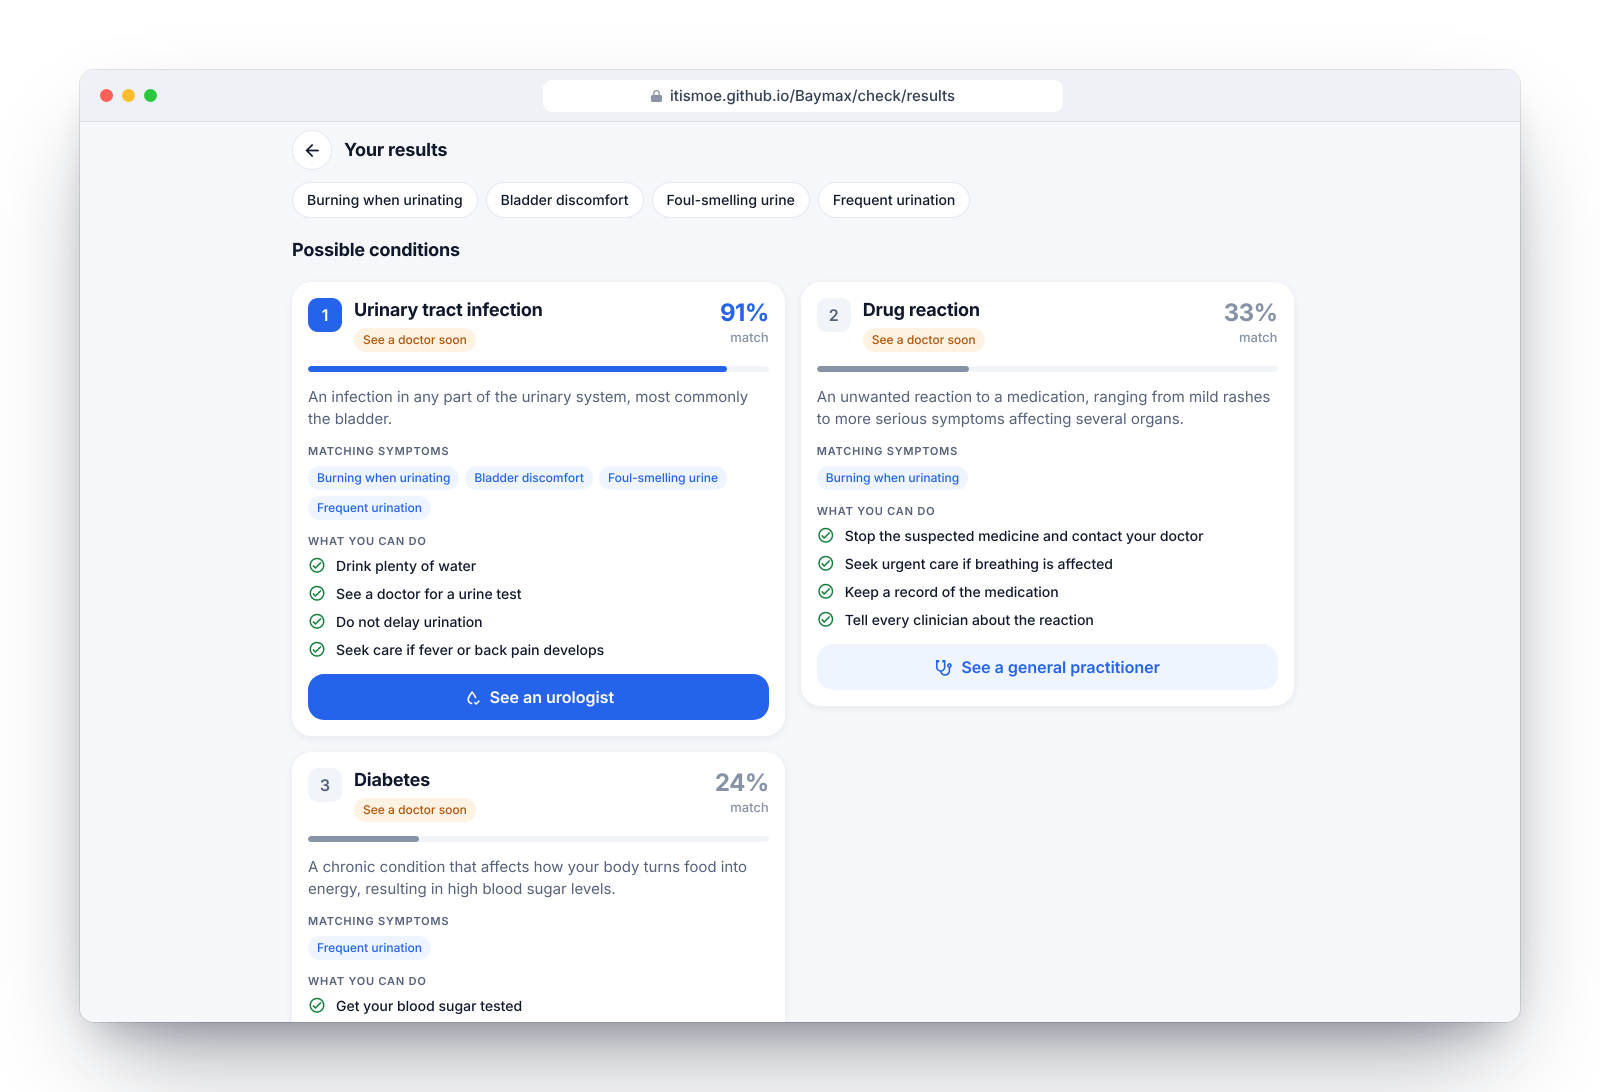
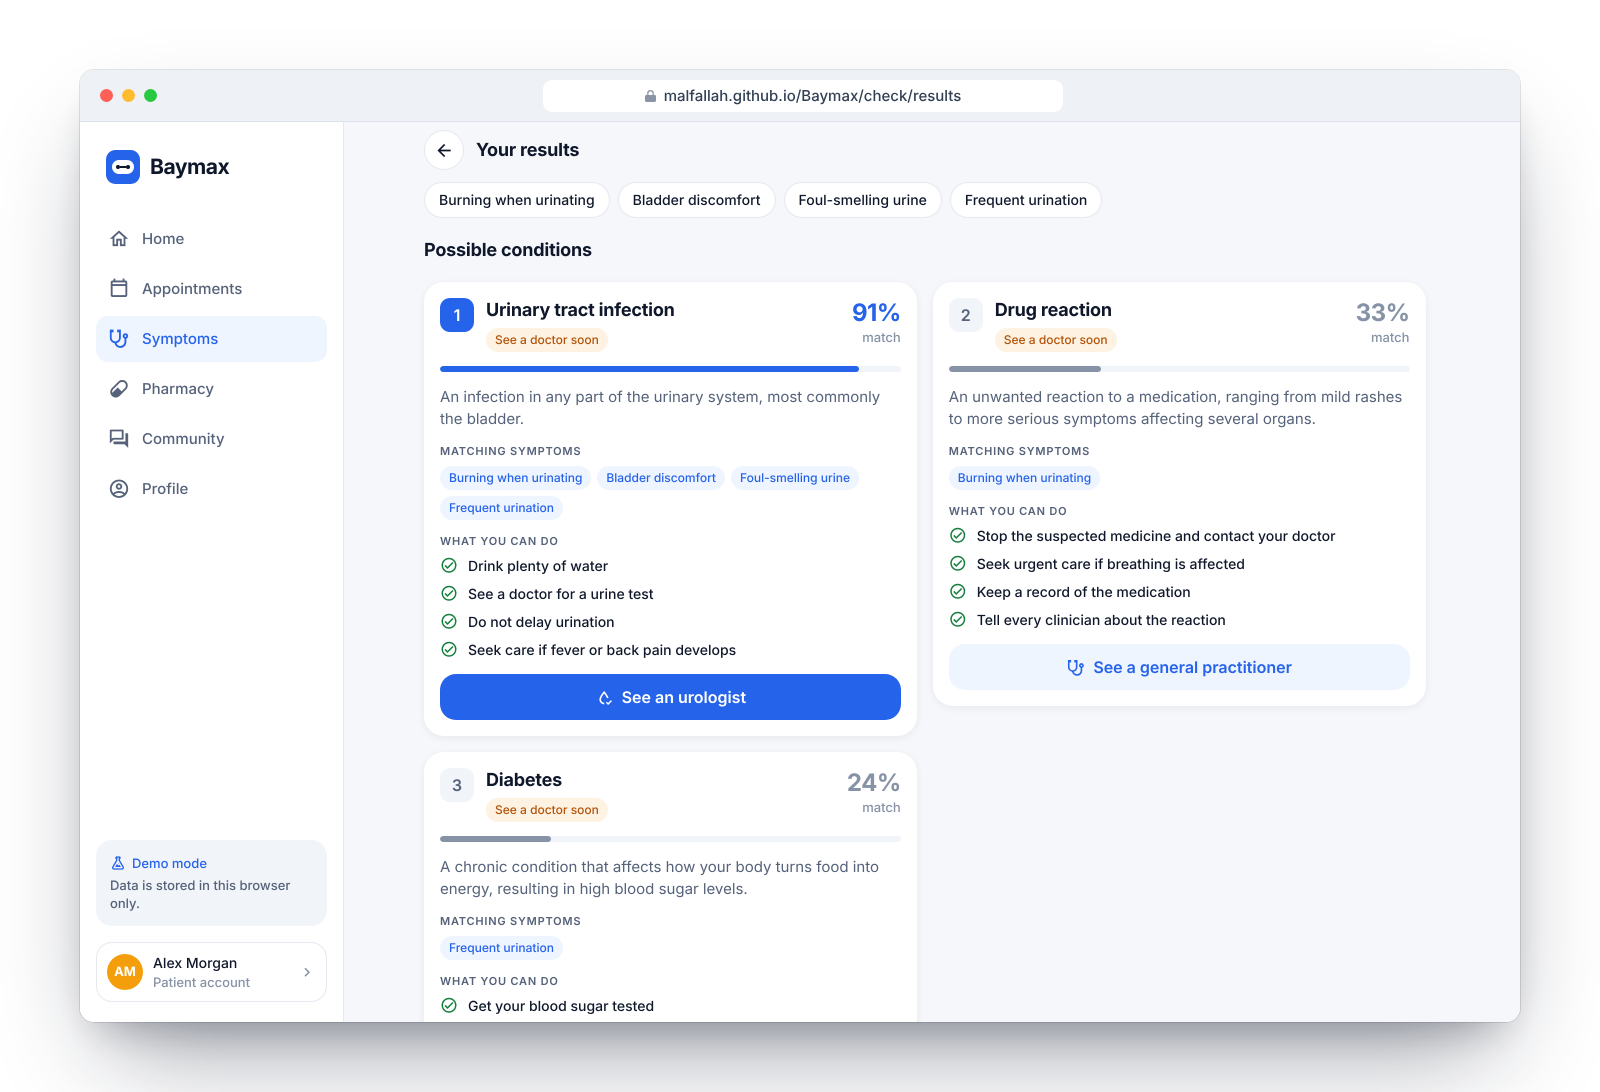
Keep navigation visible on every desktop screen
- Move the wide-layout sidebar into the (app) layout so pushed screens
  (doctor profile, results, cart, orders…) keep persistent navigation,
  with the owning section highlighted
- Refresh README screenshots and point links at the repository's
  current location
- Update GitHub Actions to Node 24-based checkout/setup-node versions

diff --git a/apps/mobile/src/components/navigation/TabBar.tsx b/apps/mobile/src/components/navigation/TabBar.tsx
@@ -2,19 +2,18 @@ import type { BottomTabBarProps } from 'expo-router/js-tabs';
 import { Platform, Pressable, View, type ViewStyle } from 'react-native';
 import { useSafeAreaInsets } from 'react-native-safe-area-context';
 import { useLayout } from '@/hooks/useLayout';
-import { IS_DEMO } from '@/lib/config';
 import { useAuth } from '@/stores/auth';
 import { cartCount, useCart } from '@/stores/cart';
 import { useTheme } from '@/theme/ThemeProvider';
-import { Avatar, Badge, Icon, Logo, Text } from '../ui';
+import { Icon, Text } from '../ui';
 import { TABS } from './tabs';
 
 /**
- * Adaptive navigation: a floating bottom bar on phones and a full sidebar
- * on tablets and desktop browsers.
+ * Bottom tab bar for phones. On tablets and desktop the (app) layout renders
+ * a persistent <Sidebar /> instead, so navigation stays visible on every screen.
  */
 export function TabBar({ state, navigation }: BottomTabBarProps) {
-  const { colors, radius } = useTheme();
+  const { colors } = useTheme();
   const insets = useSafeAreaInsets();
   const { isWide } = useLayout();
   const user = useAuth((s) => s.user);
@@ -31,121 +30,8 @@ export function TabBar({ state, navigation }: BottomTabBarProps) {
     if (activeName !== name && !event.defaultPrevented) navigation.navigate(name);
   };
 
-  if (isWide) {
-    return (
-      <View
-        style={{
-          width: 264,
-          paddingTop: insets.top + 28,
-          paddingBottom: insets.bottom + 20,
-          paddingHorizontal: 16,
-          backgroundColor: colors.surface,
-          borderRightWidth: 1,
-          borderRightColor: colors.border,
-          gap: 4,
-        }}
-      >
-        <View style={{ paddingHorizontal: 10, marginBottom: 28 }}>
-          <Logo size={34} />
-        </View>
-        {tabs.map((tab) => {
-          const active = tab.name === activeName;
-          return (
-            <Pressable
-              key={tab.name}
-              accessibilityRole="tab"
-              accessibilityState={{ selected: active }}
-              accessibilityLabel={tab.title}
-              onPress={() => go(tab.name)}
-              style={({ hovered }: { pressed: boolean; hovered?: boolean }) => [
-                {
-                  flexDirection: 'row',
-                  alignItems: 'center',
-                  gap: 12,
-                  height: 46,
-                  paddingHorizontal: 12,
-                  borderRadius: radius.md,
-                  backgroundColor: active
-                    ? colors.primarySoft
-                    : hovered
-                      ? colors.surfaceMuted
-                      : 'transparent',
-                },
-                Platform.OS === 'web' &&
-                  ({ cursor: 'pointer', transitionDuration: '120ms' } as ViewStyle),
-              ]}
-            >
-              <Icon
-                name={active ? tab.activeIcon : tab.icon}
-                size={22}
-                color={active ? colors.primary : colors.textMuted}
-              />
-              <Text
-                variant="bodyMedium"
-                color={active ? colors.primary : colors.textMuted}
-                style={{ flex: 1 }}
-              >
-                {tab.title}
-              </Text>
-              {tab.name === 'pharmacy' && items > 0 ? (
-                <Badge tone="accent" label={String(items)} />
-              ) : null}
-            </Pressable>
-          );
-        })}
-        <View style={{ flex: 1 }} />
-        {IS_DEMO ? (
-          <View
-            style={{
-              backgroundColor: colors.surfaceMuted,
-              borderRadius: radius.lg,
-              padding: 14,
-              gap: 4,
-              marginBottom: 12,
-            }}
-          >
-            <View style={{ flexDirection: 'row', alignItems: 'center', gap: 6 }}>
-              <Icon name="flask-outline" size={16} color={colors.primary} />
-              <Text variant="caption" tone="primary">
-                Demo mode
-              </Text>
-            </View>
-            <Text variant="caption" tone="muted">
-              Data is stored in this browser only.
-            </Text>
-          </View>
-        ) : null}
-        <Pressable
-          accessibilityRole="button"
-          accessibilityLabel="Open profile"
-          onPress={() => go('profile')}
-          style={[
-            {
-              flexDirection: 'row',
-              alignItems: 'center',
-              gap: 10,
-              padding: 10,
-              borderRadius: radius.lg,
-              borderWidth: 1,
-              borderColor: colors.border,
-            },
-            Platform.OS === 'web' && ({ cursor: 'pointer' } as ViewStyle),
-          ]}
-        >
-          <Avatar name={user.fullName} color={user.avatarColor} size={36} />
-          <View style={{ flex: 1 }}>
-            <Text variant="callout" numberOfLines={1}>
-              {user.fullName}
-            </Text>
-            <Text variant="caption" tone="subtle" numberOfLines={1}>
-              {user.role === 'doctor' ? 'Doctor account' : 'Patient account'}
-            </Text>
-          </View>
-          <Icon name="chevron-right" size={18} color={colors.textSubtle} />
-        </Pressable>
-      </View>
-    );
-  }
+  // Wide layouts use the persistent <Sidebar /> rendered by the (app) layout.
+  if (isWide) return null;
 
   return (
     <View

diff --git a/apps/mobile/src/components/navigation/Sidebar.tsx b/apps/mobile/src/components/navigation/Sidebar.tsx
@@ -1,0 +1,150 @@
+import { router, usePathname } from 'expo-router';
+import { Platform, Pressable, View, type ViewStyle } from 'react-native';
+import { useSafeAreaInsets } from 'react-native-safe-area-context';
+import { IS_DEMO } from '@/lib/config';
+import { useAuth } from '@/stores/auth';
+import { cartCount, useCart } from '@/stores/cart';
+import { useTheme } from '@/theme/ThemeProvider';
+import { Avatar, Badge, Icon, Logo, Text } from '../ui';
+import { TABS } from './tabs';
+
+/** Which sidebar section owns each top-level path segment. */
+const SECTION_FOR: Record<string, string> = {
+  appointments: 'care',
+  doctors: 'care',
+  products: 'pharmacy',
+  cart: 'pharmacy',
+  checkout: 'pharmacy',
+  orders: 'pharmacy',
+  articles: 'community',
+  questions: 'community',
+};
+
+/** Persistent navigation for tablets and desktop browsers, shown on every signed-in screen. */
+export function Sidebar() {
+  const { colors, radius } = useTheme();
+  const insets = useSafeAreaInsets();
+  const pathname = usePathname();
+  const user = useAuth((s) => s.user);
+  const items = useCart((s) => cartCount(s.lines));
+  if (!user) return null;
+
+  const tabs = TABS[user.role];
+  const segment = pathname.split('/').filter(Boolean)[0] ?? 'home';
+  const activeName = SECTION_FOR[segment] ?? segment;
+  const go = (name: string) => router.navigate(`/${name}` as never);
+
+  return (
+    <View
+      style={{
+        width: 264,
+        paddingTop: insets.top + 28,
+        paddingBottom: insets.bottom + 20,
+        paddingHorizontal: 16,
+        backgroundColor: colors.surface,
+        borderRightWidth: 1,
+        borderRightColor: colors.border,
+        gap: 4,
+      }}
+    >
+      <View style={{ paddingHorizontal: 10, marginBottom: 28 }}>
+        <Logo size={34} />
+      </View>
+      {tabs.map((tab) => {
+        const active = tab.name === activeName;
+        return (
+          <Pressable
+            key={tab.name}
+            accessibilityRole="tab"
+            accessibilityState={{ selected: active }}
+            accessibilityLabel={tab.title}
+            onPress={() => go(tab.name)}
+            style={({ hovered }: { pressed: boolean; hovered?: boolean }) => [
+              {
+                flexDirection: 'row',
+                alignItems: 'center',
+                gap: 12,
+                height: 46,
+                paddingHorizontal: 12,
+                borderRadius: radius.md,
+                backgroundColor: active
+                  ? colors.primarySoft
+                  : hovered
+                    ? colors.surfaceMuted
+                    : 'transparent',
+              },
+              Platform.OS === 'web' &&
+                ({ cursor: 'pointer', transitionDuration: '120ms' } as ViewStyle),
+            ]}
+          >
+            <Icon
+              name={active ? tab.activeIcon : tab.icon}
+              size={22}
+              color={active ? colors.primary : colors.textMuted}
+            />
+            <Text
+              variant="bodyMedium"
+              color={active ? colors.primary : colors.textMuted}
+              style={{ flex: 1 }}
+            >
+              {tab.title}
+            </Text>
+            {tab.name === 'pharmacy' && items > 0 ? (
+              <Badge tone="accent" label={String(items)} />
+            ) : null}
+          </Pressable>
+        );
+      })}
+      <View style={{ flex: 1 }} />
+      {IS_DEMO ? (
+        <View
+          style={{
+            backgroundColor: colors.surfaceMuted,
+            borderRadius: radius.lg,
+            padding: 14,
+            gap: 4,
+            marginBottom: 12,
+          }}
+        >
+          <View style={{ flexDirection: 'row', alignItems: 'center', gap: 6 }}>
+            <Icon name="flask-outline" size={16} color={colors.primary} />
+            <Text variant="caption" tone="primary">
+              Demo mode
+            </Text>
+          </View>
+          <Text variant="caption" tone="muted">
+            Data is stored in this browser only.
+          </Text>
+        </View>
+      ) : null}
+      <Pressable
+        accessibilityRole="button"
+        accessibilityLabel="Open profile"
+        onPress={() => go('profile')}
+        style={[
+          {
+            flexDirection: 'row',
+            alignItems: 'center',
+            gap: 10,
+            padding: 10,
+            borderRadius: radius.lg,
+            borderWidth: 1,
+            borderColor: colors.border,
+          },
+          Platform.OS === 'web' && ({ cursor: 'pointer' } as ViewStyle),
+        ]}
+      >
+        <Avatar name={user.fullName} color={user.avatarColor} size={36} />
+        <View style={{ flex: 1 }}>
+          <Text variant="callout" numberOfLines={1}>
+            {user.fullName}
+          </Text>
+          <Text variant="caption" tone="subtle" numberOfLines={1}>
+            {user.role === 'doctor' ? 'Doctor account' : 'Patient account'}
+          </Text>
+        </View>
+        <Icon name="chevron-right" size={18} color={colors.textSubtle} />
+      </Pressable>
+    </View>
+  );
+}

diff --git a/apps/mobile/src/app/(app)/_layout.tsx b/apps/mobile/src/app/(app)/_layout.tsx
@@ -1,8 +1,20 @@
 import { Redirect, Stack } from 'expo-router';
+import { View } from 'react-native';
+import { Sidebar } from '@/components/navigation/Sidebar';
+import { useLayout } from '@/hooks/useLayout';
 import { useAuth } from '@/stores/auth';
 
 export default function AppLayout() {
   const signedIn = useAuth((s) => !!s.token);
+  const { isWide } = useLayout();
   if (!signedIn) return <Redirect href="/welcome" />;
-  return <Stack screenOptions={{ headerShown: false }} />;
+
+  const stack = <Stack screenOptions={{ headerShown: false }} />;
+  if (!isWide) return stack;
+  return (
+    <View style={{ flex: 1, flexDirection: 'row' }}>
+      <Sidebar />
+      <View style={{ flex: 1 }}>{stack}</View>
+    </View>
+  );
 }

diff --git a/README.md b/README.md
@@ -8,13 +8,13 @@
 
 One TypeScript codebase for **iOS**, **Android** and the **web**, backed by a secure REST API.
 
-[![CI](https://github.com/ItisMoe/Baymax/actions/workflows/ci.yml/badge.svg)](https://github.com/ItisMoe/Baymax/actions/workflows/ci.yml)
-[![Deploy](https://github.com/ItisMoe/Baymax/actions/workflows/deploy-pages.yml/badge.svg)](https://github.com/ItisMoe/Baymax/actions/workflows/deploy-pages.yml)
+[![CI](https://github.com/malfallah/Baymax/actions/workflows/ci.yml/badge.svg)](https://github.com/malfallah/Baymax/actions/workflows/ci.yml)
+[![Deploy](https://github.com/malfallah/Baymax/actions/workflows/deploy-pages.yml/badge.svg)](https://github.com/malfallah/Baymax/actions/workflows/deploy-pages.yml)
 ![Expo SDK 57](https://img.shields.io/badge/Expo-SDK%2057-000020?logo=expo)
 ![TypeScript](https://img.shields.io/badge/TypeScript-strict-3178C6?logo=typescript&logoColor=white)
 ![License: MIT](https://img.shields.io/badge/License-MIT-green.svg)
 
-**[▶ Try the live demo](https://itismoe.github.io/Baymax/)** · [Features](#features) · [Screenshots](#screenshots) · [Quick start](#quick-start) · [Architecture](#architecture) · [API](#api-reference)
+**[▶ Try the live demo](https://malfallah.github.io/Baymax/)** · [Features](#features) · [Screenshots](#screenshots) · [Quick start](#quick-start) · [Architecture](#architecture) · [API](#api-reference)
 
 </div>
 
@@ -47,7 +47,7 @@ One TypeScript codebase for **iOS**, **Android** and the **web**, backed by a se
 - **Adaptive UI** — bottom tabs on phones, a full sidebar and multi-column layouts on tablets and desktop browsers.
 - **Light & dark mode** — follows the system, or choose in Profile.
 - **Accessible** — semantic roles and labels on every control, large touch targets, readable contrast.
-- **Self-contained demo mode** — with no API configured, the app runs a faithful on-device implementation of the API, so the [GitHub Pages site](https://itismoe.github.io/Baymax/) is fully interactive.
+- **Self-contained demo mode** — with no API configured, the app runs a faithful on-device implementation of the API, so the [GitHub Pages site](https://malfallah.github.io/Baymax/) is fully interactive.
 
 ## Screenshots
 
@@ -82,7 +82,7 @@ One TypeScript codebase for **iOS**, **Android** and the **web**, backed by a se
 **Requirements:** Node.js 20+ (22 recommended) and npm 10+. MongoDB is only needed to run the API.
 
 ```bash
-git clone https://github.com/ItisMoe/Baymax.git
+git clone https://github.com/malfallah/Baymax.git
 cd Baymax
 npm install
 ```
